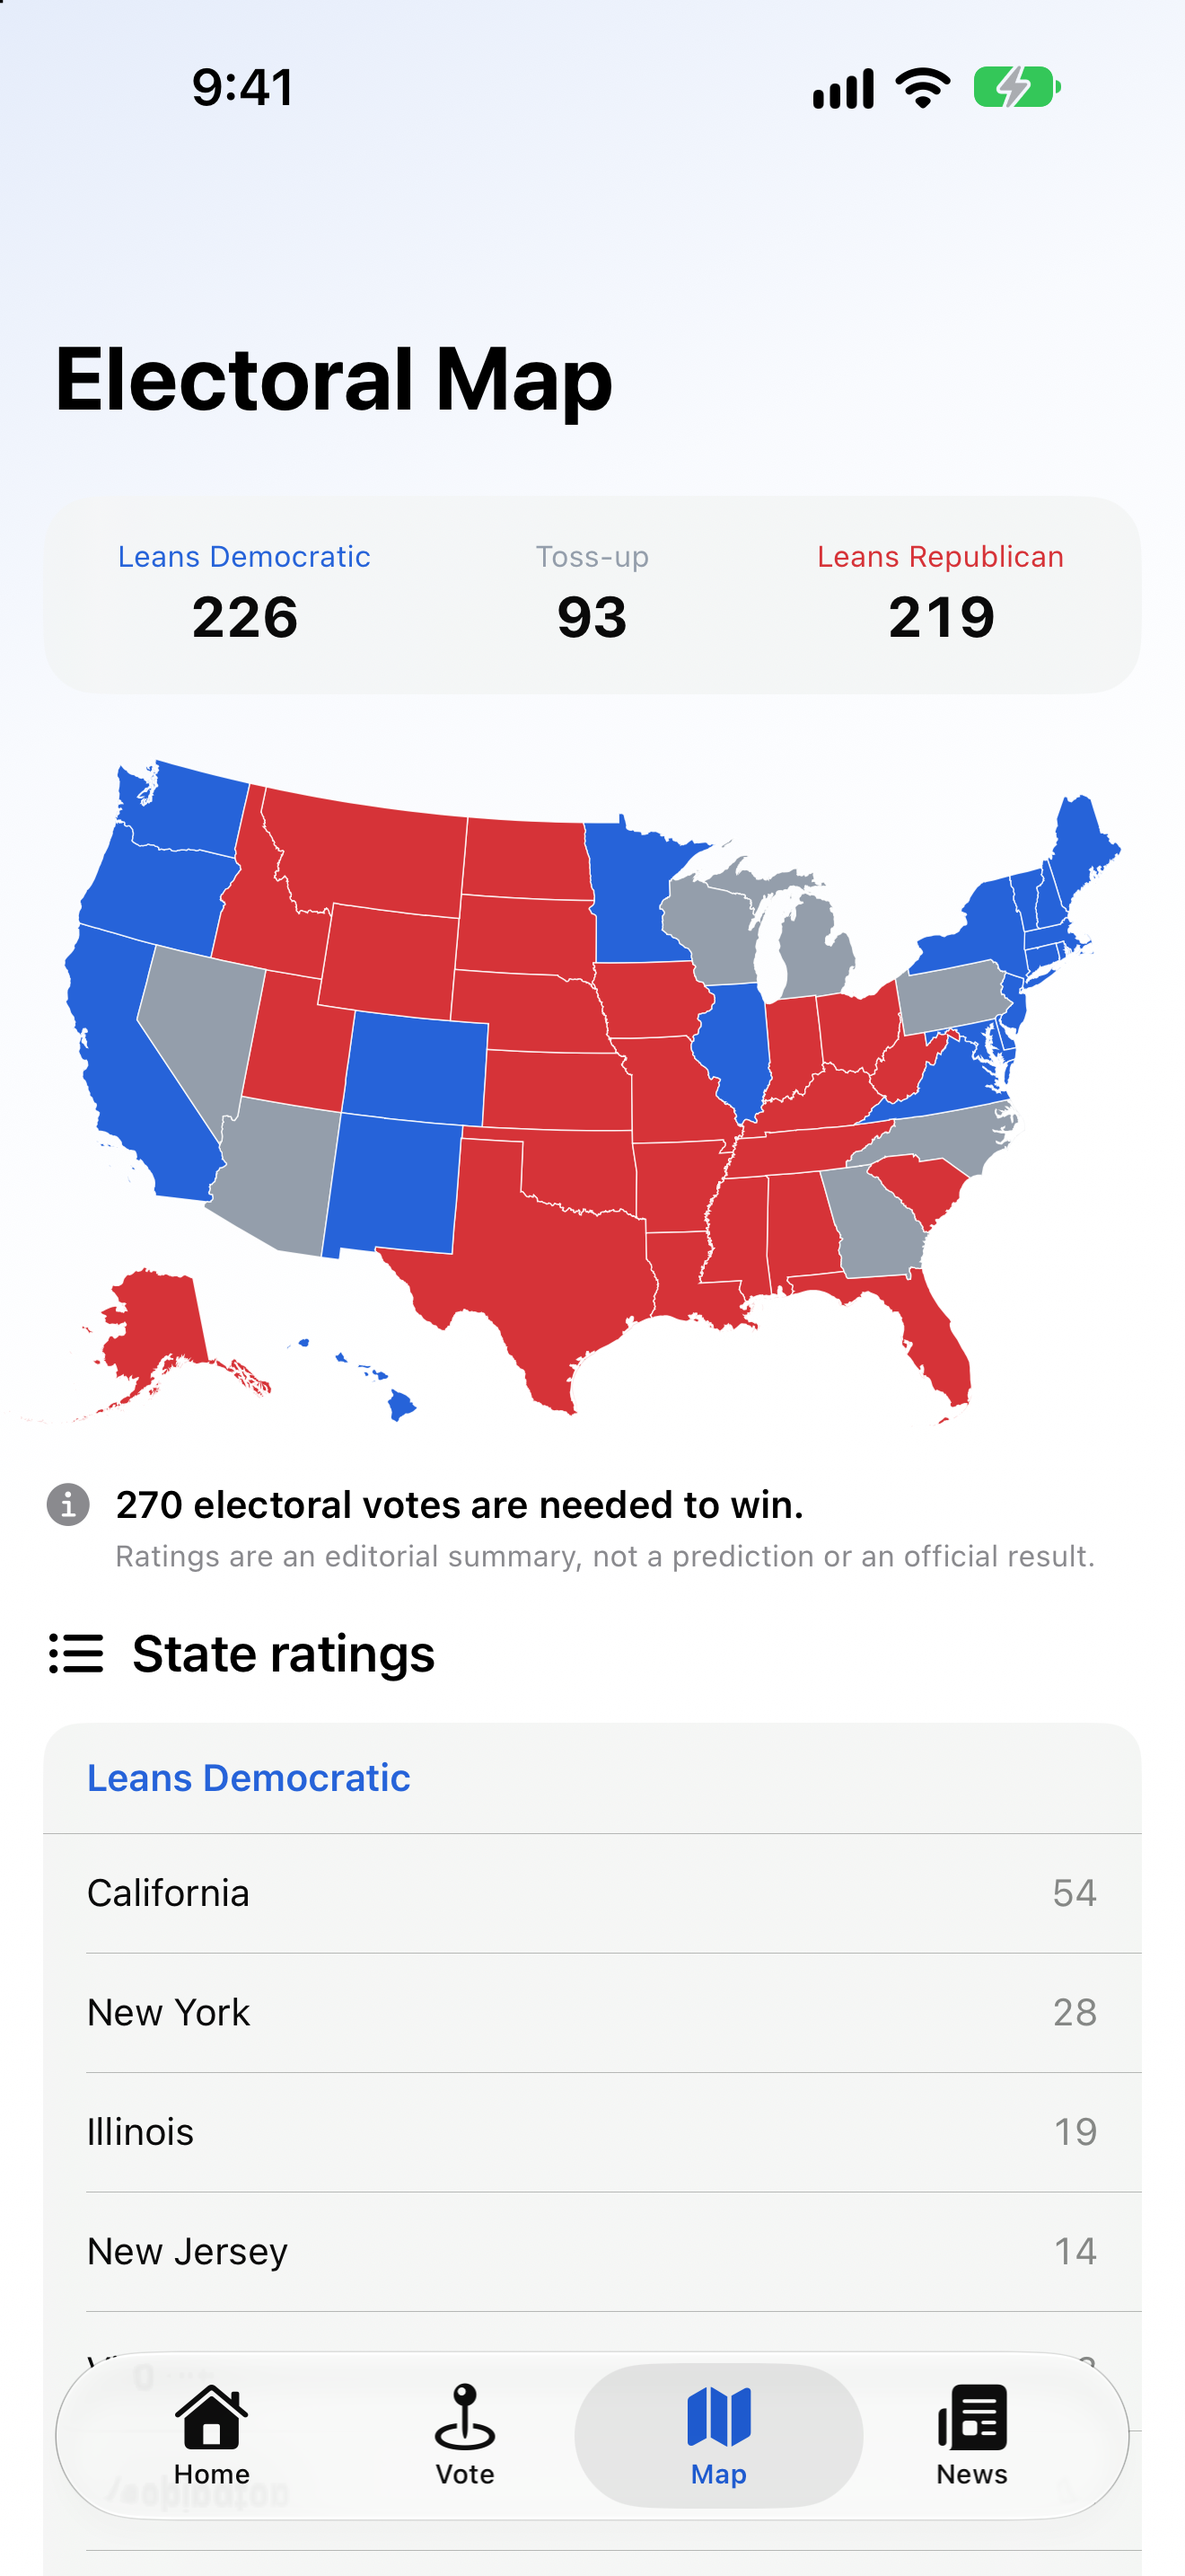
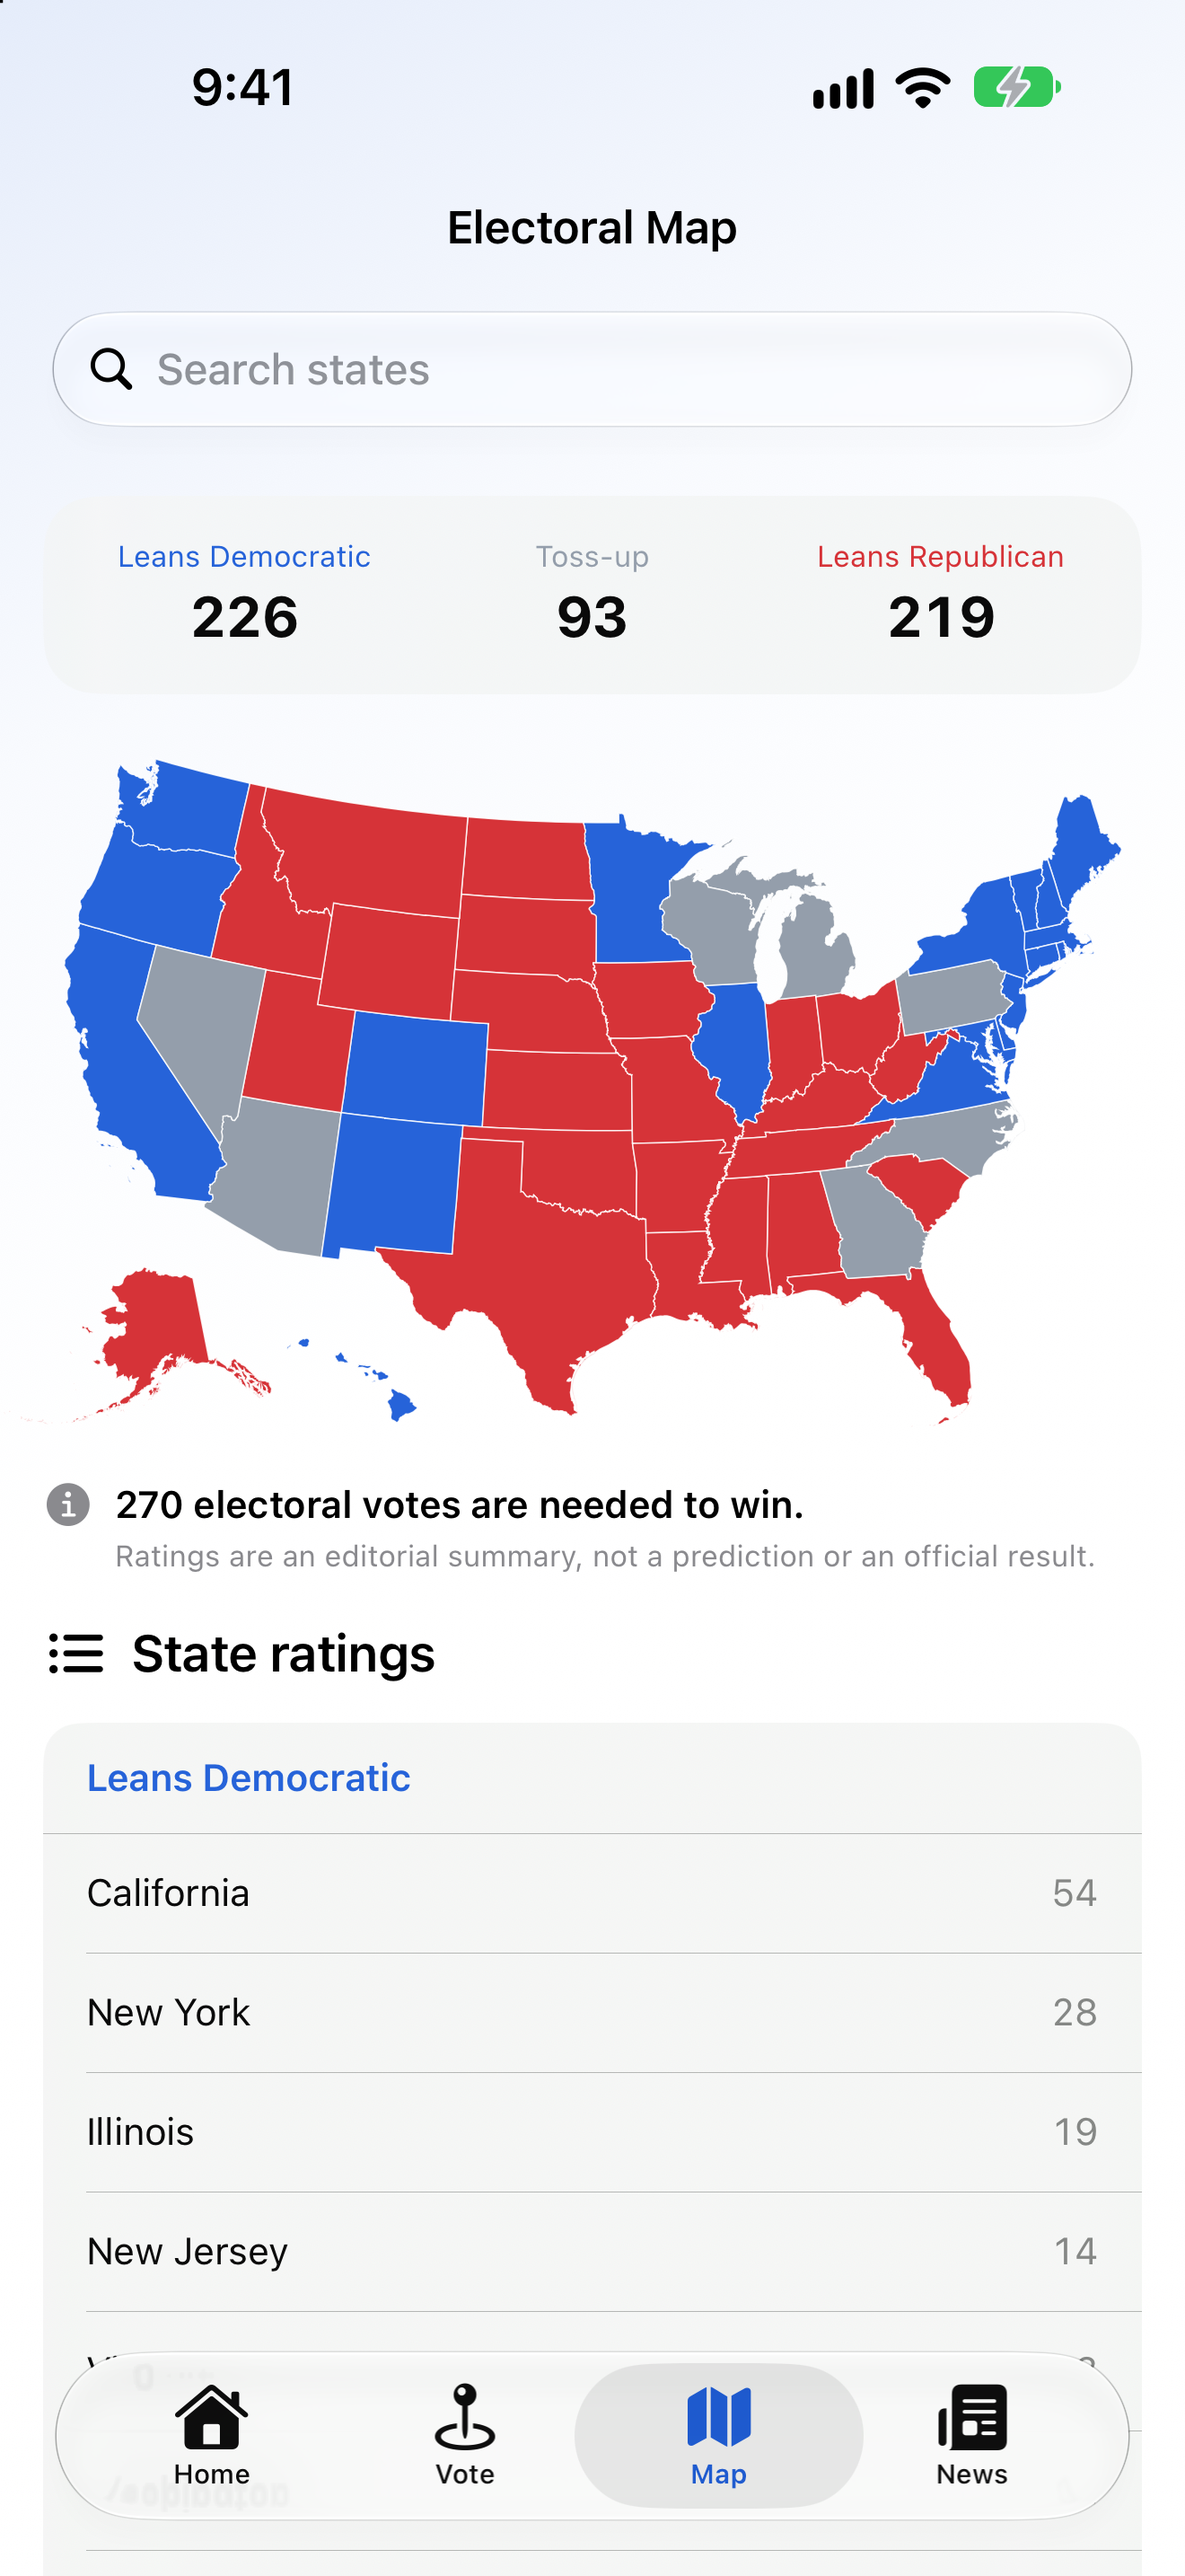
feat(ios): re-shoot the App Store screenshots against the deployed server
Captured after #2 merged and Vercel deployed, so the set reflects what
production actually serves. All five checked by opening them rather than
trusting the script's exit code.

- 3-electoral-map.png now shows the "Search states" field. It really was
  stale, predating a7dfe10's pinned-open `.searchable`.
- 5-news.png is the change that made the ordering matter: it now leads with
  "2026 Midterm Elections: The races that will decide control of Congress" and
  "Voting in the 2026 midterms? Here's what you need to know before Nov. 3".
  Capturing before the deploy would have put Turkish and Philippine election
  headlines into the App Store listing — the exact 4.2.2 risk §8D removed.
- 1-vote-results.png shows 90210 with real venues, the "Not confirmed" badge
  and the MapKit map.
- 4-official-sources.png is byte-identical to the previous capture, which is
  expected for a purely static screen.

APP_STORE.md gains two rules that were learned rather than assumed: capture
only after the server is deployed, because the app points at production
directly; and never use `-stubPolling` for store screenshots, because those
venues are fabricated and marketing is the last place rule #1 should bend.
Also corrects the description of shot 3 — it shows the ratings list, not a
selected state — and the news blurb now says "about the current US election".

Changed region(s): [[0.0311, 0.1241, 0.528, 0.1862], [0.3727, 0.0621, 0.6212, 0.0931]]

diff --git a/ios/APP_STORE.md b/ios/APP_STORE.md
@@ -59,8 +59,8 @@ An interactive map of all 50 states and DC with electoral vote counts and the
 270 line.
 
 ELECTION NEWS
-Headlines from across the political spectrum, opening on the publisher's own
-page.
+Headlines about the current US election, from across the political spectrum,
+opening on the publisher's own page.
 
 BUILT TO BE TRUSTED
 Vote4U is independent and nonpartisan. It is not affiliated with any government
@@ -153,7 +153,7 @@ Required: **6.9" iPhone** (1320 × 2868 or 1290 × 2796). Apple scales these dow
 devices, so one set is enough for an iPhone-only app. iPad is not required — the target is
 `TARGETED_DEVICE_FAMILY = 1`.
 
-**Captured 2026-09-20 and committed to `ios/screenshots/`** at 1320 × 2868. Regenerate with:
+**Captured 2026-09-21 and committed to `ios/screenshots/`** at 1320 × 2868. Regenerate with:
 
 ```
 ./scripts/capture-screenshots.sh
@@ -167,12 +167,23 @@ The order, voting tools first and news last, mirrors the app's own priorities:
 
 1. Vote tab with results for 90210, map and cards visible.
 2. Home tab countdown with the reminder toggle.
-3. Map tab with a state selected.
+3. Map tab: tally, national map and the state-ratings list, with the search field visible.
 4. Vote tab empty state showing the official-source links.
 5. News tab.
 
 Use a real search, never a mock-up: screenshots must show the actual app (2.3.3). The committed
 set uses live production data for exactly that reason.
+
+**Two consequences of using live data, both learned the hard way:**
+
+- **Capture only after the server is deployed.** The app points at
+  `https://vote4ucyl.vercel.app` directly, so a capture run reflects whatever production is
+  serving at that moment, not what is on `main`. Shooting before the 2026-09-21 news-scoping
+  deploy would have baked foreign-election headlines into the store set.
+- **Never use `-stubPolling` for these.** The stub's venues are fabricated. They exist for tests
+  and QA and are compiled out of Release; putting them in store marketing is exactly what rule #1
+  forbids. Shoot a real ZIP and re-check it on the day — Nominatim's coverage of any given ZIP
+  comes and goes.
 
 **Screenshot 4 is the weakest** — it is mostly empty space. It earns its place by showing that
 the app sends people to official sources, which is the trust story, but swap it for a second

diff --git a/HANDOFF.md b/HANDOFF.md
@@ -510,7 +510,31 @@ naive "try everything" could exceed the serverless limit. Run later tiers only w
 one is empty.
 </details>
 
-### B. Re-shoot the App Store screenshots — **blocked on the deploy, do it straight after**
+### B. Re-shoot the App Store screenshots — **DONE 2026-09-21**
+
+Captured after PR #2 merged and Vercel had deployed, so the set reflects the shipped server.
+All five checked by opening them, not by trusting the script's exit code (§4):
+
+- **`3-electoral-map.png`** now shows the "Search states" field — it really was stale, predating
+  `a7dfe10`'s pinned-open `.searchable`.
+- **`5-news.png`** is the big change and the reason the ordering mattered: it now leads with
+  "2026 Midterm Elections: The races that will decide control of Congress" and "Voting in the
+  2026 midterms? Here's what you need to know before Nov. 3". Shooting before the deploy would
+  have put foreign-election headlines in the App Store listing — the exact 4.2.2 risk.
+- **`1-vote-results.png`** shows 90210 with real venues, the "Not confirmed" badge and the
+  MapKit map.
+- **`4-official-sources.png`** is byte-identical to the previous capture, which is expected: it
+  is a purely static screen.
+
+`ios/APP_STORE.md` updated: the capture date, an accurate description of shot 3, the two
+live-data rules below, and the news blurb now says "about the current US election".
+
+**Two rules now written into `APP_STORE.md`:** capture only after the server is deployed (the app
+points at production directly), and never use `-stubPolling` for store screenshots — those venues
+are fabricated, and marketing is the last place rule #1 should bend.
+
+<details>
+<summary>The pre-capture analysis</summary>
 
 Checked on 2026-09-21 by opening the PNGs rather than trusting the claim (§4):
 
@@ -530,6 +554,8 @@ by opening them.
 think it is wrong: those venues are fabricated, and putting fabricated polling places into store
 marketing is precisely what rule #1 exists to prevent. Shoot against a real ZIP and re-check it
 on the day. The stub is for tests and QA, not for the listing.
+
+</details>
 
 <details>
 <summary>The original note</summary>
